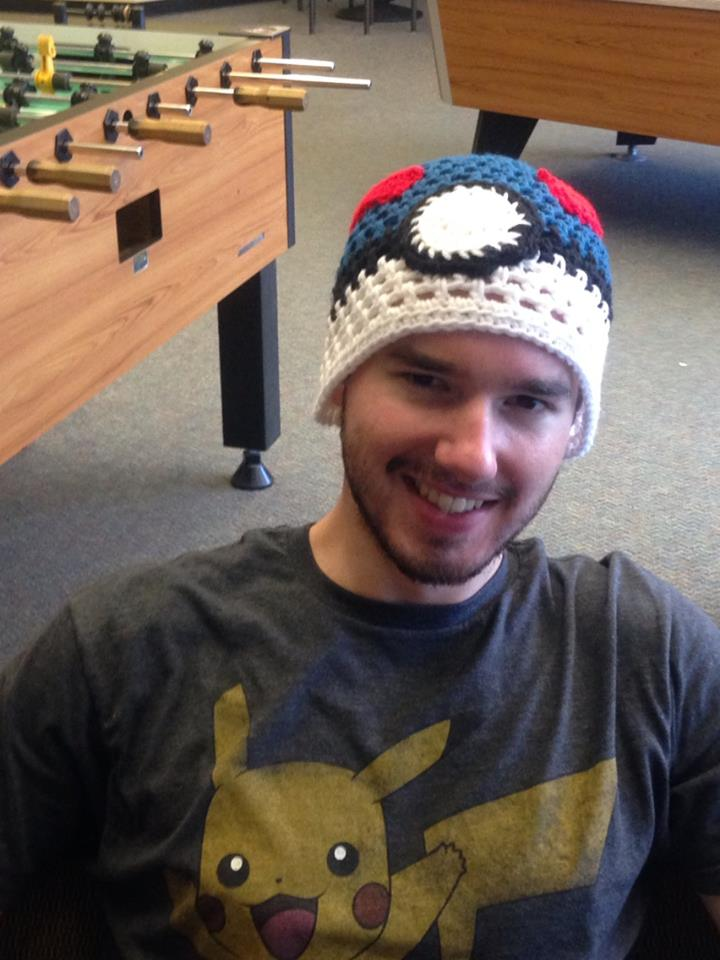
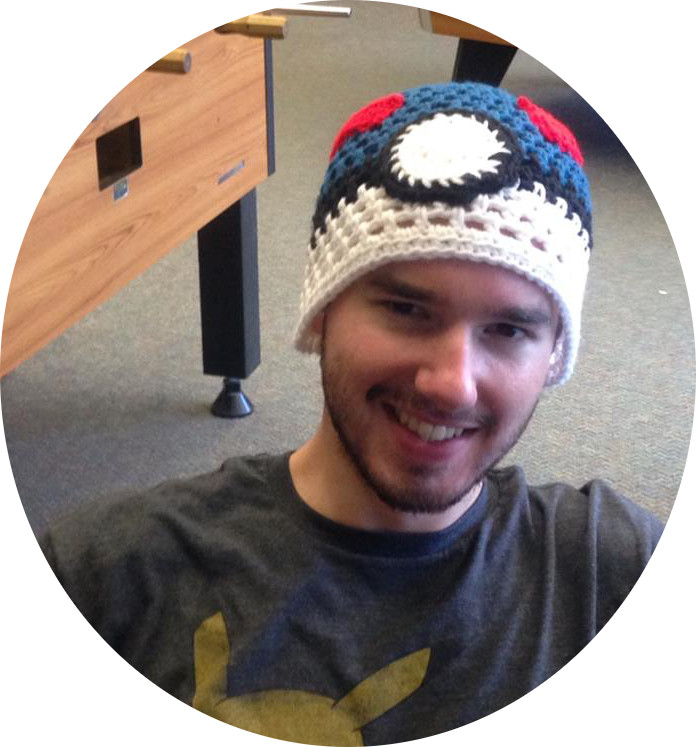
maybe will work

diff --git a/index.md b/index.md
@@ -20,6 +20,21 @@ tagline: Computer Programmer
 My attempt to make a Blog
 <img src="/assets/images/blake.jpg" alt="Blake">   
 
+    <header>
+        <div class="container">
+            <div class="row">
+                <div class="col-lg-12">
+                    <img class="img-responsive" src="/assets/images/blake.jpg" alt="">
+                    <div class="intro-text">
+                        <span class="name">Start Bootstrap</span>
+                        <hr class="star-light">
+                        <span class="skills">Web Developer - Graphic Artist - User Experience Designer</span>
+                    </div>
+                </div>
+            </div>
+        </div>
+    </header>
+
 
 List of posts 
 
